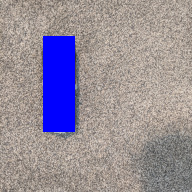
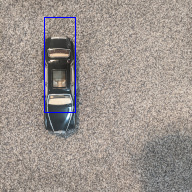
done with ps7

Changed region(s): [[0.2188, 0.0625, 0.4062, 0.6875]]

diff --git a/week7/ps7.py b/week7/ps7.py
@@ -175,7 +175,7 @@ blue = (0,0,255)
 thres = 0.7
 
 # nested for loop for sliding window
-for K in range(1,11): # K = 1:10
+for K in range(6,11): # K = 1:10
     max_prob = 0 # holds max probability per img
     for i in range(0,192-96,stride):
         for j in range(0,192-32,stride):
@@ -190,7 +190,12 @@ for K in range(1,11): # K = 1:10
                 i_max, j_max = i,j
     
     if(max_prob > thres):
-        img[i_max:i_max+96,j_max:j_max+32] = blue
+        img[i_max,j_max:j_max+32] = blue # top edge
+        img[i_max+95,j_max:j_max+32] = blue # bottom edge
+
+        img[i_max:i_max+96, j_max] = blue # left edge
+        img[i_max:i_max+96, j_max+31] = blue # right edge
+
     print(f'save photo {K}')
     img = np.clip(img, 0, 255).astype(np.uint8)
     matimg.imsave(f'/workspaces/python/week7/output/ps7-2-c-{K}.png',img) # saves image with window of highest probability of car
